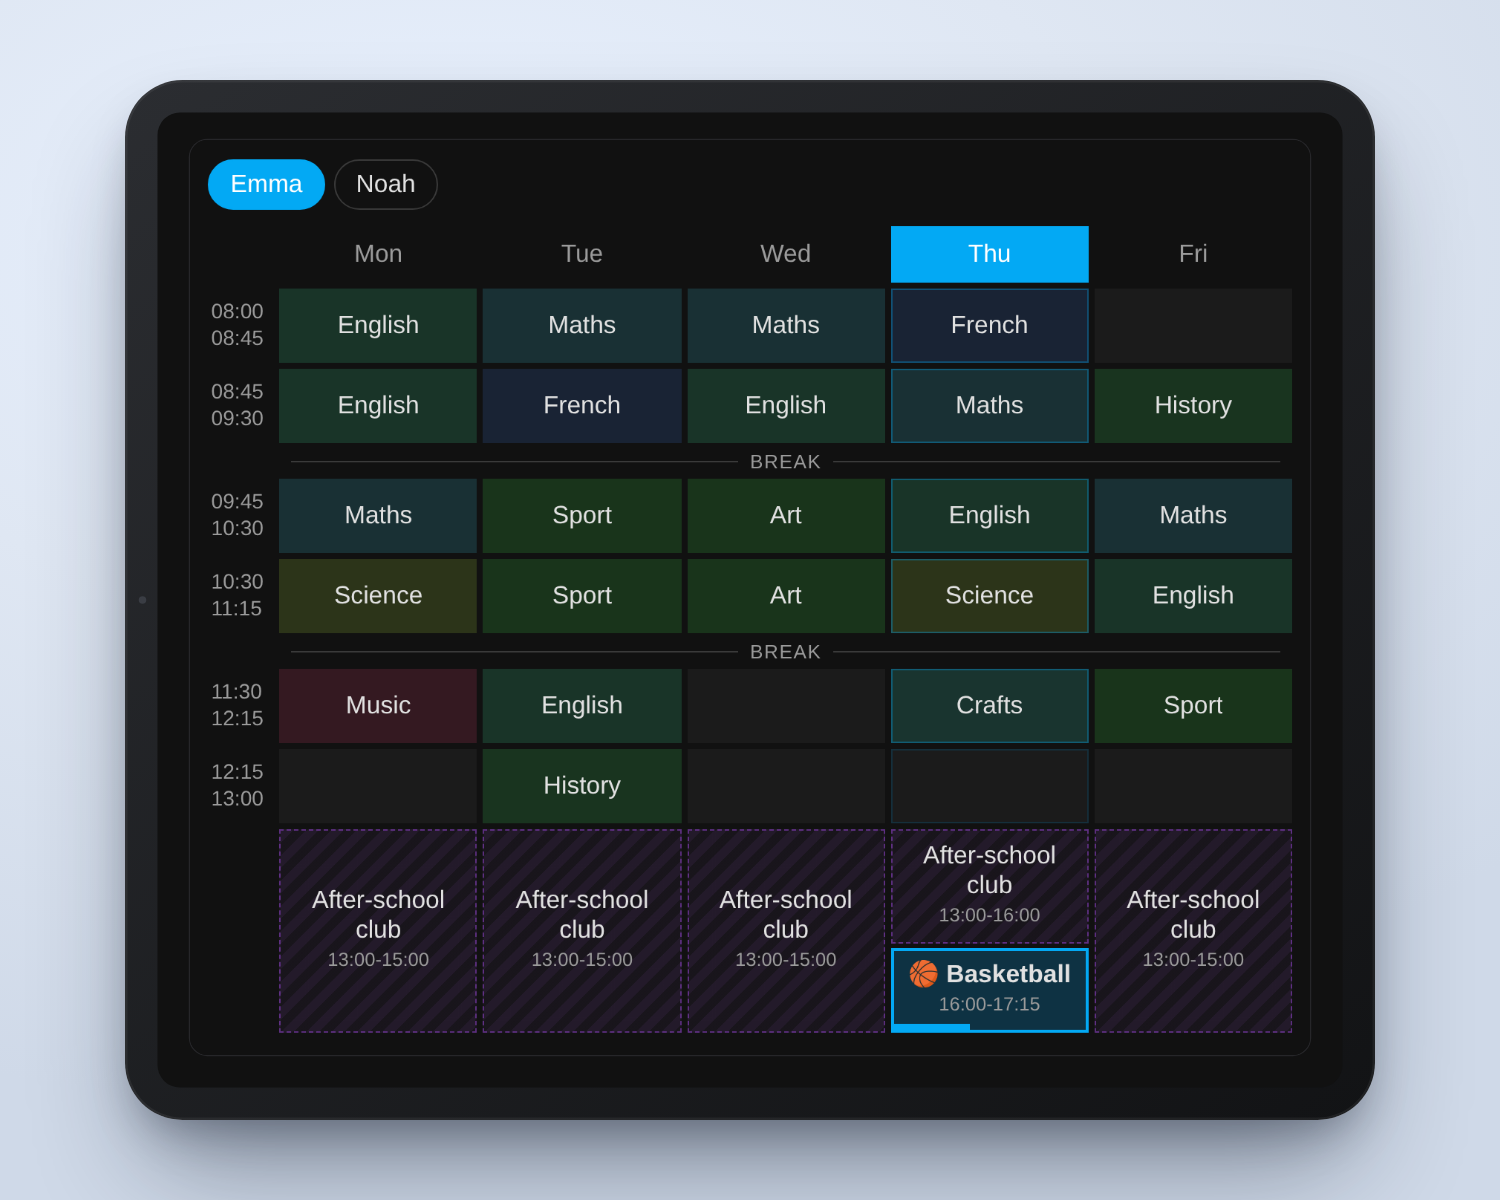
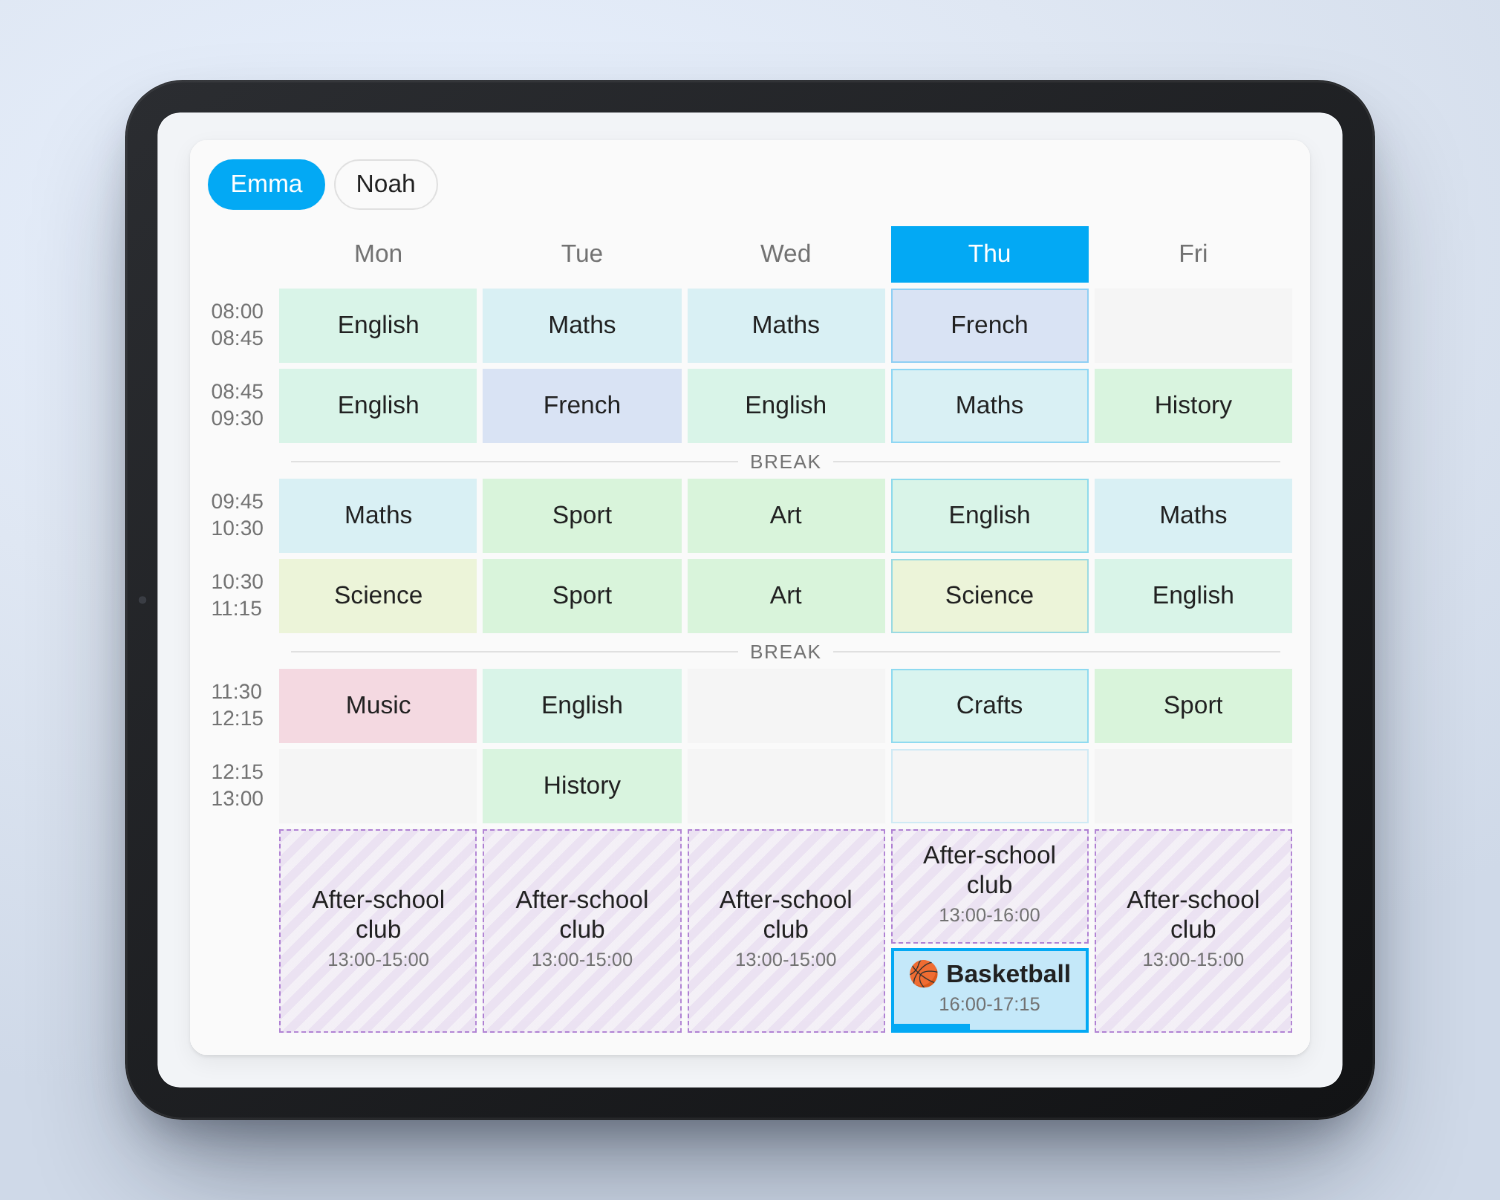
README: personal intro and features text, light afternoon image
- Rewrite intro and features in a more personal, plain tone
- Afternoon image in light mode
- Remove Requirements and German sections

Claude-Session: https://claude.ai/code/session_01WqVVLb8nK13UtFYVuAAmKd

diff --git a/assets/mockups/mockups.html b/assets/mockups/mockups.html
@@ -42,10 +42,10 @@
   </div>
 </div>
 
-<!-- tablet-afternoon.png: dark mode, afternoon activity running (Thu 16:30) -->
+<!-- tablet-afternoon.png: light mode, afternoon activity running (Thu 16:30) -->
 <div id="tablet-afternoon" class="stage" style="width:1200px;height:960px">
   <div class="tablet" style="width:1000px">
-    <div class="screen dark"><div class="content"><div class="card"><img src="../raw/card-dark-afternoon.png"></div></div></div>
+    <div class="screen light"><div class="content"><div class="card"><img src="../raw/card-light-afternoon.png"></div></div></div>
   </div>
 </div>
 

diff --git a/README.md b/README.md
@@ -5,7 +5,7 @@
 <h1 align="center">Sleek School Schedule</h1>
 
 <p align="center">
-  A clean school timetable for Home Assistant: set it up in the dashboard, see the current lesson at a glance, and use it in automations.
+  A school timetable for Home Assistant that is easy to set up and looks good on any dashboard.
 </p>
 
 <p align="center">
@@ -21,16 +21,21 @@
 
 ## Features
 
-- **Edit everything in the card editor.** No YAML, no config flow marathon: time grid, subjects and afternoon activities are edited right in the dashboard card editor, with a live preview.
-- **Current lesson highlighted** with a progress bar, also during breaks and afternoon activities.
-- **Afternoon per day.** After-school care, clubs and sports get their own times on each day (e.g. care until 4 pm, then basketball until 5:15 pm), without bloating the time grid.
-- **Several children.** One timetable per child, shown as tabs or as separate cards.
-- **Tap a subject** to highlight all its lessons in the week.
-- **Sensors for automations:** current lesson, next lesson, end of lessons and pickup time.
-- **Automatic colors** per subject, light and dark mode, works on phones, tablets and wall panels.
-- **7 languages:** English, German, French, Dutch, Spanish, Italian and Polish. Weekday names follow your Home Assistant language automatically.
+I wanted our school timetables in Home Assistant. Every integration I tried was either a pain to configure or didn't look good, so I had my own built.
 
-| Afternoon activity running (dark mode) | Tap a subject to highlight it |
+> [!NOTE]
+> The idea and the features are my brainchild, but the code is 100% AI generated. I just want to be transparent about that.
+
+- You set up times, subjects and afternoon activities directly in the card editor of your dashboard, with a live preview.
+- The current lesson is highlighted and shows a progress bar. This also works for breaks and afternoon activities.
+- Afternoon activities can be different on every day, for example after-school club until 4 pm on Thursday and basketball afterwards.
+- One timetable per child, shown as tabs in one card or in separate cards.
+- Tap a subject and you see every lesson of that subject in the week.
+- Sensors for the current lesson, the next lesson, the end of lessons and the pickup time, so you can use the timetable in automations.
+- Every subject gets its own color automatically. Light and dark mode are supported, on phones as well as on tablets.
+- Available in English, German, French, Dutch, Spanish, Italian and Polish.
+
+| Afternoon activity running | Tap a subject to highlight it |
 | --- | --- |
 | ![Afternoon activity running](assets/tablet-afternoon.png) | ![Highlight a subject](assets/tablet-highlight.png) |
 
@@ -105,15 +110,6 @@ All texts live in one JSON file per language:
 - `custom_components/sleek_school_schedule/translations/<language>.json` for the setup dialog and sensor names
 
 To add a language, copy the English files, translate them and open a pull request. Corrections to existing translations are very welcome as well.
-
-## Requirements
-
-- Home Assistant 2024.7 or newer
-- The integration icon is shown from Home Assistant 2026.3 on
-
-## Deutsch
-
-Sleek School Schedule ist ein Stundenplan für Home Assistant. Zeitraster, Fächer und Nachmittagsbetreuung werden direkt im Karteneditor des Dashboards gepflegt, die aktuelle Stunde wird hervorgehoben, und Sensoren für aktuelle Stunde, nächste Stunde, Unterrichtsende und Abholzeit stehen für Automationen bereit. Installation und Einrichtung wie oben beschrieben, die Oberfläche erscheint automatisch auf Deutsch, wenn Home Assistant auf Deutsch eingestellt ist.
 
 ## License
 
